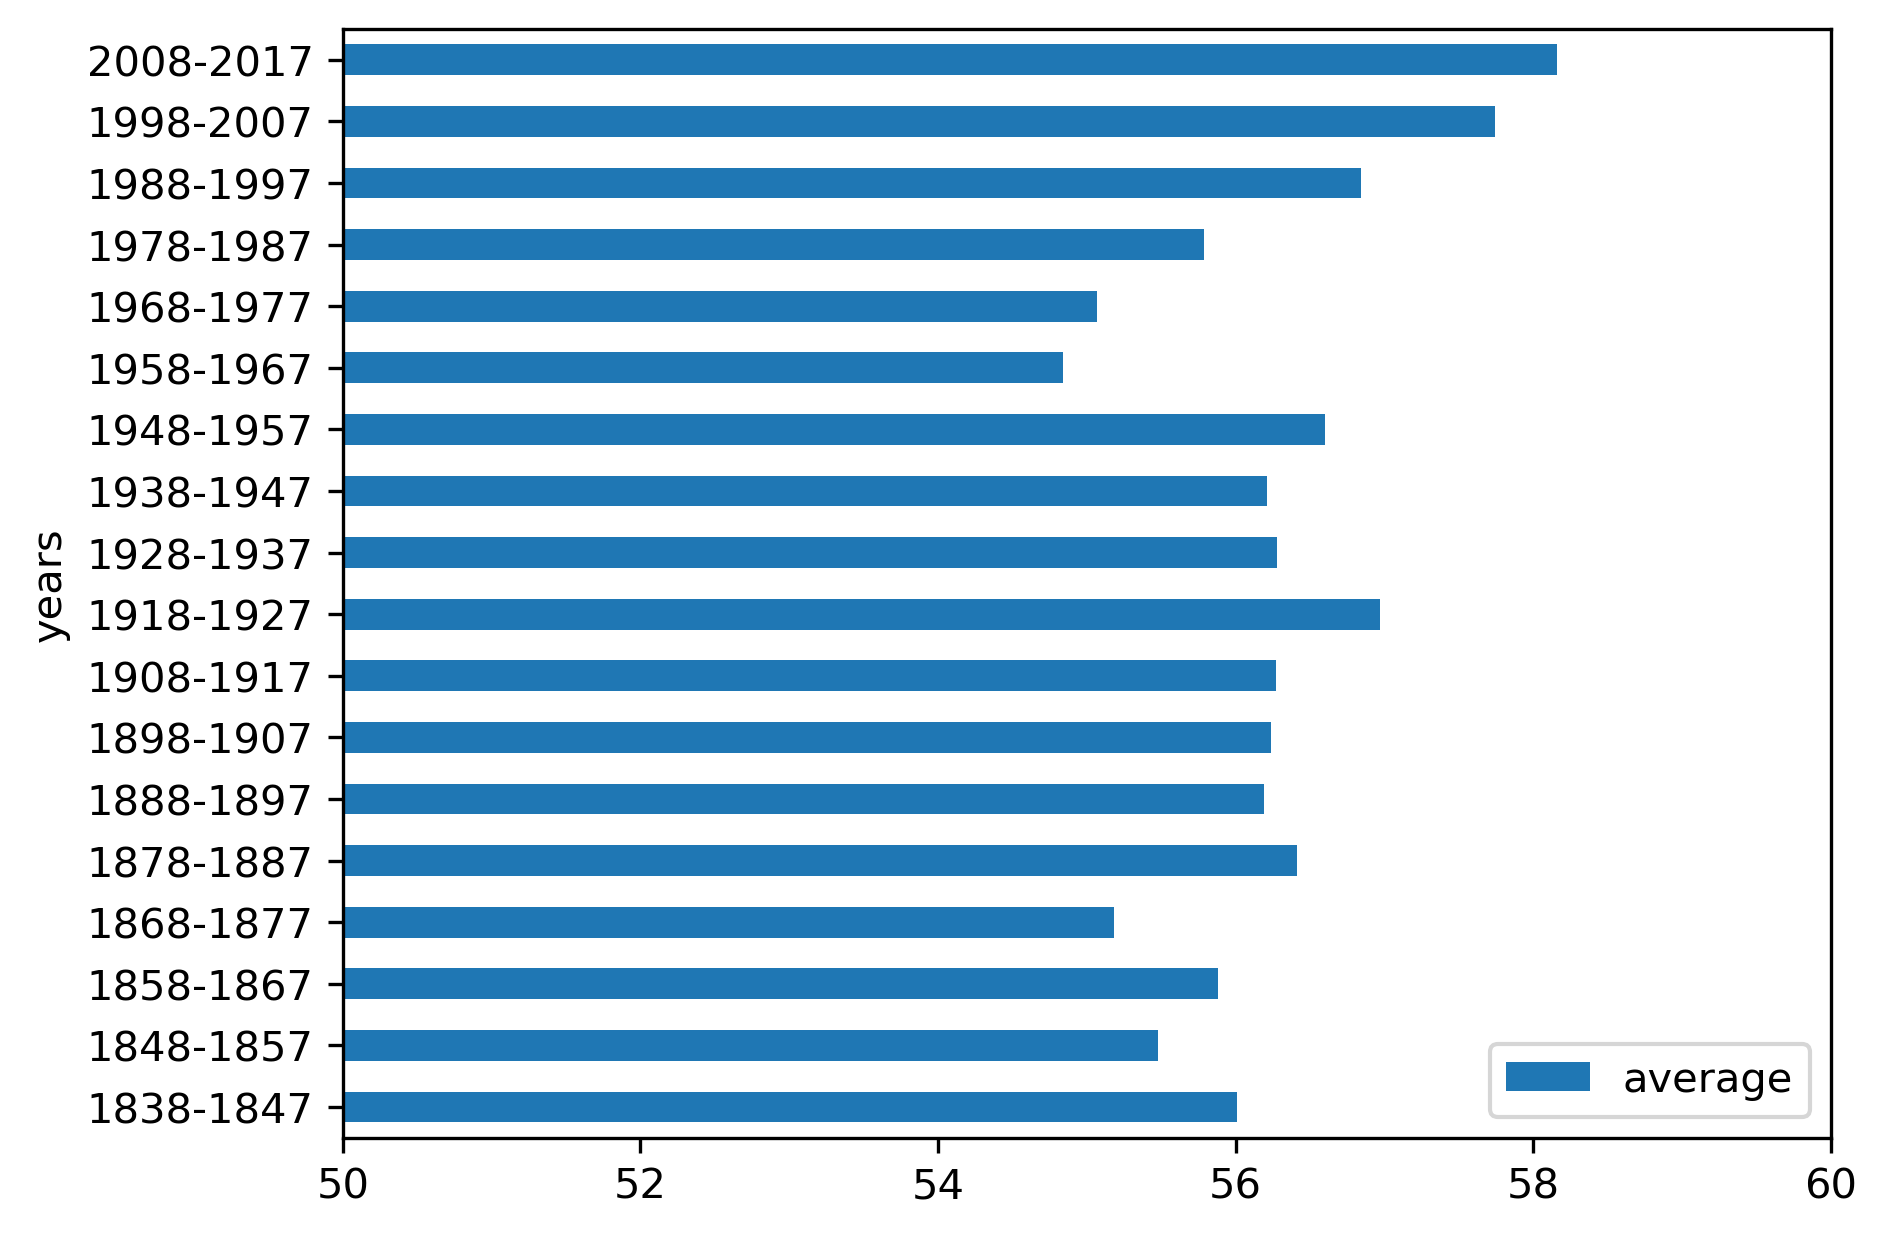
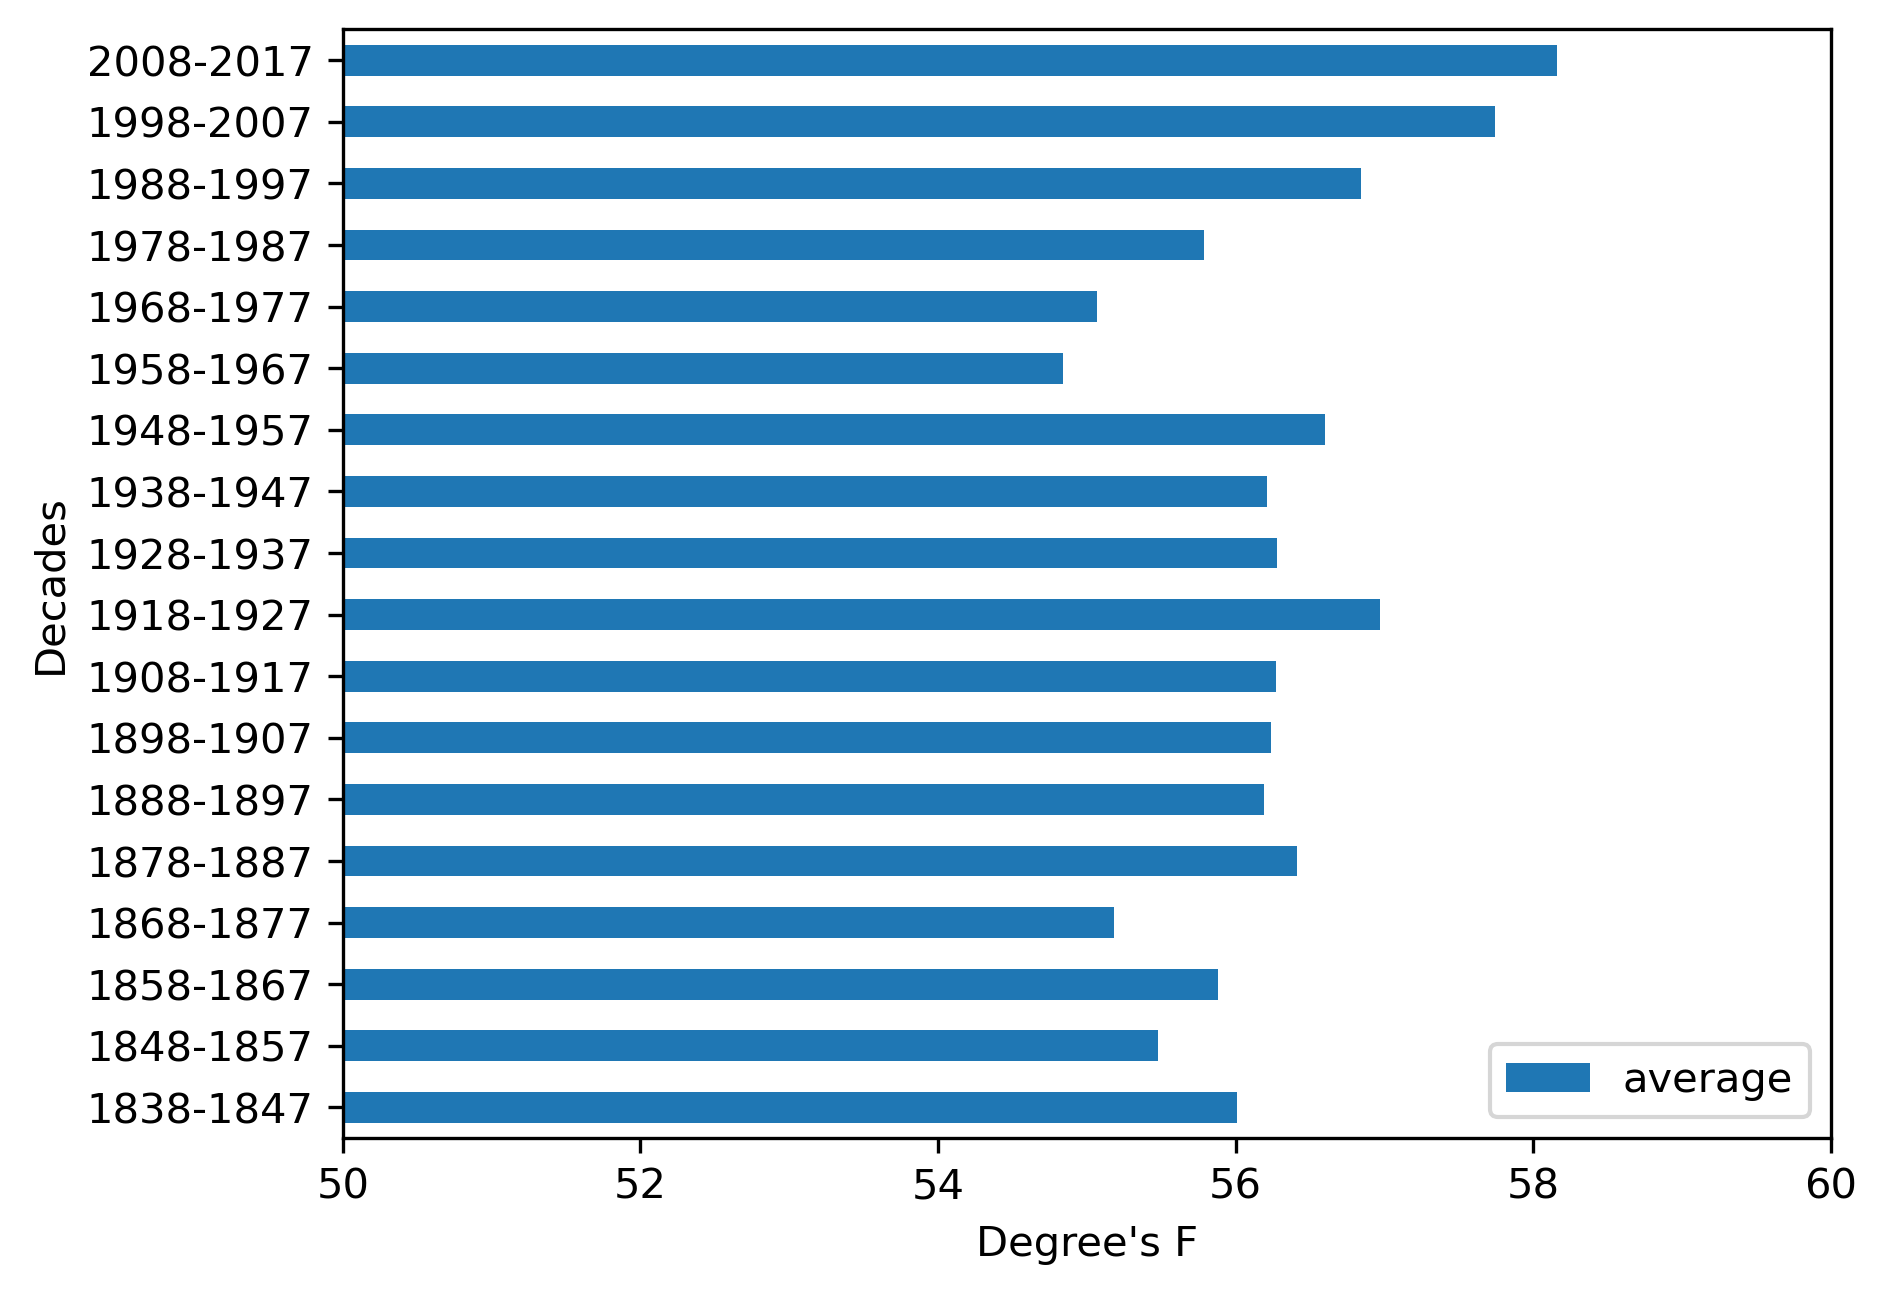
update

diff --git a/templates/contact.html b/templates/contact.html
@@ -58,7 +58,7 @@
                 </div>
             </div>
             <div>
-                <h3>Hackers</h3>
+                <h1>Hackers</h1>
                 <hr>
                 <table border=0 class="contactTable">
                     <tr>
@@ -82,7 +82,7 @@
                         <th>
                             <img src="/static/Tony.jpg">
                             <figcaption>Name: Tony Guy</figcaption>
-                            <figcaption>Email: sjponton@students.ecsu.edu</figcaption>
+                            <figcaption>Email: ttguy983@students.ecsu.edu</figcaption>
                         </th>
                     </tr>
                 </table>
@@ -117,7 +117,7 @@
             </div>
         </main>
         <!-- Footer-->
-        <footer class="footer mt-auto py-3 bg-light fixed-bottom">
+        <footer class="footer mt-auto py-3 bg-light fixed">
           <div class="container">
             <span class="text-muted">2021 November Hackathon | Cool Ducks</span>
           </div>

diff --git a/templates/index.html b/templates/index.html
@@ -107,7 +107,7 @@
         </main>
         <!-- Footer-->
         <div class=" row gx-4 centerText justify-content-center" id="footerID">
-            <strong>Citations:</strong>
+            <strong><h1>Citations</h1></strong>
             <hr>
             <hr>
             <table border = 0>
@@ -132,7 +132,7 @@
                 </tr>
             </table>
         </div>
-        <footer class="footer mt-auto py-3 bg-light fixed-bottom">
+        <footer class="footer mt-auto py-3 bg-light fixed">
           <div class="container">
             <span class="text-muted">2021 November Hackathon | Cool Ducks</span>
           </div>

diff --git a/templates/organizations.html b/templates/organizations.html
@@ -120,11 +120,6 @@
                 </div>
             </main>
             <!-- Footer-->
-						<footer class="footer mt-auto py-3 bg-light fixed-bottom">
-		          <div class="container">
-		            <span class="text-muted">2021 November Hackathon | Cool Ducks</span>
-		          </div>
-		        </footer>
             <!-- Bootstrap core JS-->
             <script src="https://cdn.jsdelivr.net/npm/bootstrap@5.1.3/dist/js/bootstrap.bundle.min.js"></script>
             <!-- Core theme JS-->

diff --git a/static/css.css b/static/css.css
@@ -81,6 +81,7 @@ table.center {
 	height:200px !important;
 	width: 200px !important;
 	margin-top: 40px !important;
+	border-radius: 150px;
 }
 .contactTable th{
 	padding-left: 40px;

diff --git a/main.py b/main.py
@@ -175,7 +175,11 @@ def get_list(key, data):
 def generate_plots(data):
     df = pd.DataFrame(data)
     line_plot = df.plot(x='years', y='average', ylim=(54,60))
+    line_plot.set_ylabel("Degree's F")
+    line_plot.set_xlabel("Decades")
     bar_plot =  df.plot.barh(x='years', y='average', xlim=(50,60))
+    bar_plot.set_xlabel("Degree's F")
+    bar_plot.set_ylabel("Decades")
     return line_plot, bar_plot
 
 def save_plot(plot, filename):
